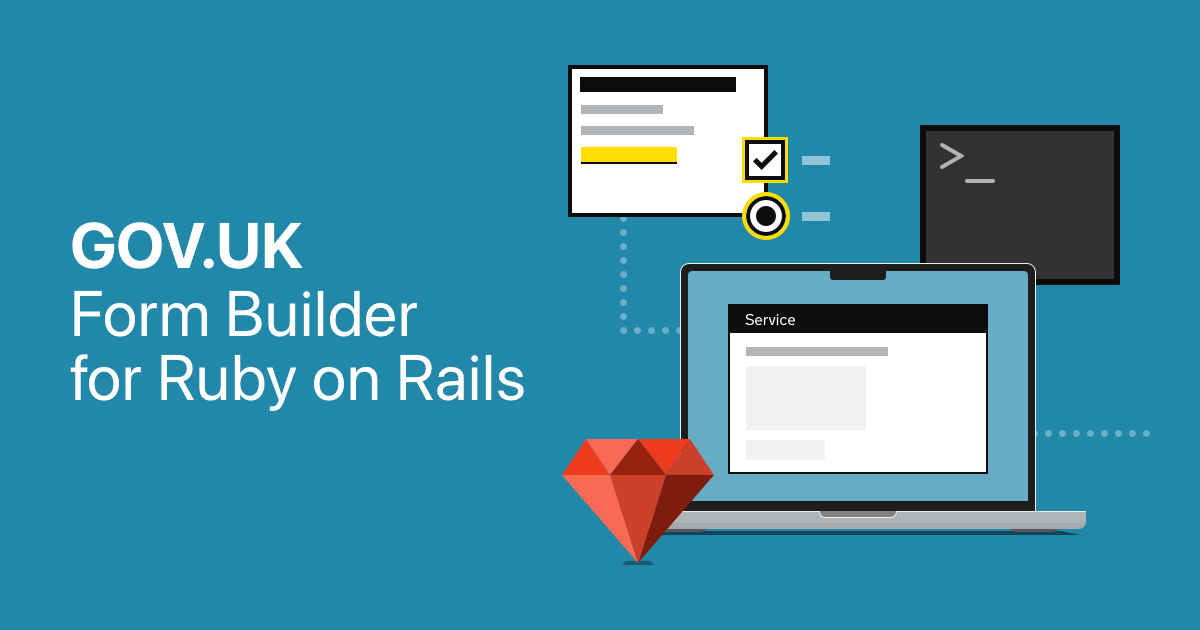
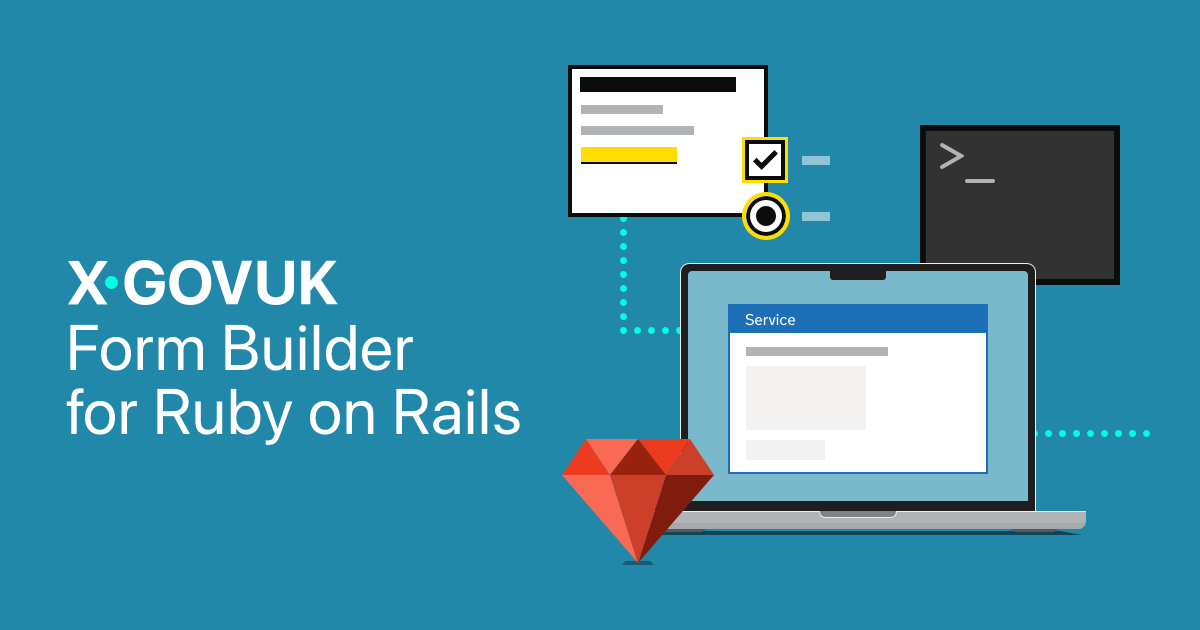
Implement X-GOVUK rebrand

diff --git a/guide/content/stylesheets/application.scss b/guide/content/stylesheets/application.scss
@@ -1,5 +1,7 @@
 // GOV.UK Frontend options
 $govuk-global-styles: true;
+$govuk-new-organisation-colours: true;
+$govuk-new-typography-scale: true;
 $govuk-assets-path: "/assets/";
 $govuk-font-family: system-ui, sans-serif;
 $govuk-brand-colour: #2288aa;
@@ -9,7 +11,7 @@ $govuk-link-visited-colour: #333366;
 $govuk-page-width: 1100px;
 
 // Import GOV.UK Frontend
-@import "dist/govuk/all";
+@import "dist/govuk";
 
 // Import GOV.UK Prototype Components
 @import "x-govuk/components/masthead/masthead";
@@ -18,7 +20,6 @@ $govuk-page-width: 1100px;
 
 // Application components
 @import "components/example";
-@import "components/header";
 @import "components/highlight";
 @import "components/prose";
 
